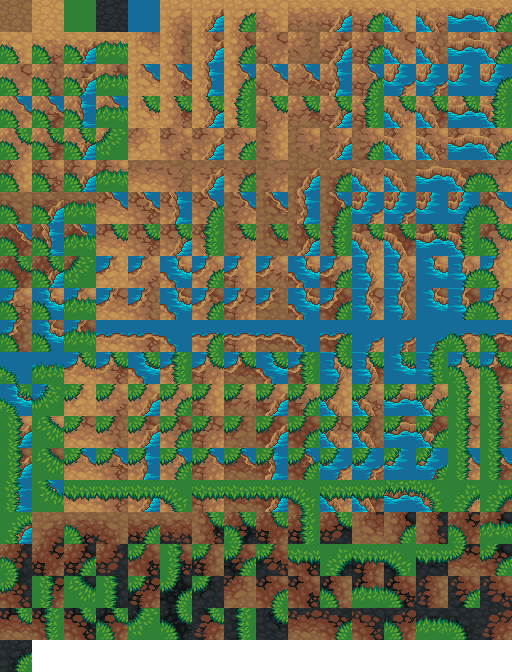
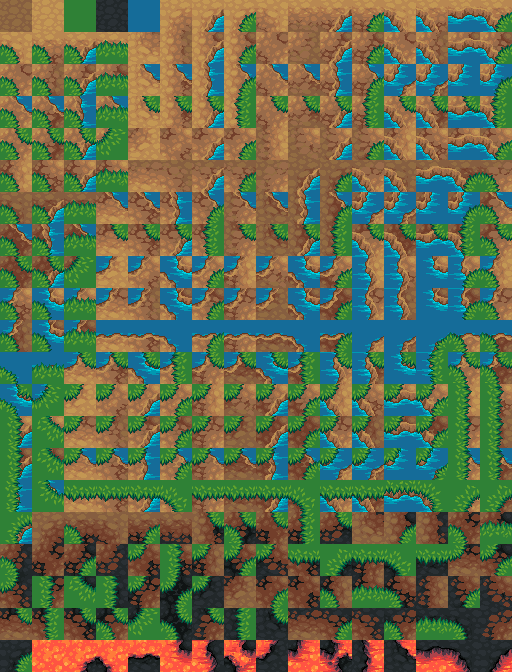
Added lava to terrain tileset
Also fixed the random insertion of grass by tweaking the "distances"
between terrains. All terrains now have a +1 distance penalty to/from
grass, making it prefer transitions through other types of terrain.

Changed region(s): [[0.0625, 0.9375, 1.0, 1.0]]

diff --git a/tiles/terrain.tsx b/tiles/terrain.tsx
@@ -2,11 +2,12 @@
 <tileset name="terrain" tilewidth="32" tileheight="32">
  <image source="terrain.png" width="512" height="672"/>
  <terraintypes>
-  <terrain name="Darkdirt" tile="0" distances=",0,1,1,1,1"/>
-  <terrain name="Dirt" tile="1" distances=",1,0,1,2,1"/>
-  <terrain name="Grass" tile="2" distances=",1,1,0,2,1"/>
-  <terrain name="Lavarock" tile="3" distances=",1,2,2,0,2"/>
-  <terrain name="Water" tile="4" distances=",1,1,1,2,0"/>
+  <terrain name="Darkdirt" tile="0" distances=",0,1,2,1,1,2"/>
+  <terrain name="Dirt" tile="1" distances=",1,0,2,2,1,3"/>
+  <terrain name="Grass" tile="2" distances=",2,2,0,2,2,3"/>
+  <terrain name="Lavarock" tile="3" distances=",1,2,2,0,2,1"/>
+  <terrain name="Water" tile="4" distances=",1,1,2,2,0,3"/>
+  <terrain name="Lava" tile="321" distances=",2,3,3,1,3,0"/>
  </terraintypes>
  <tile id="0" terrain="0,0,0,0"/>
  <tile id="1" terrain="1,1,1,1"/>
@@ -329,4 +330,19 @@
  <tile id="318" terrain="3,3,2,3"/>
  <tile id="319" terrain="3,3,3,0"/>
  <tile id="320" terrain="3,3,3,2"/>
+ <tile id="321" terrain="5,5,5,5"/>
+ <tile id="322" terrain="5,5,5,3"/>
+ <tile id="323" terrain="5,5,3,5"/>
+ <tile id="324" terrain="5,5,3,3"/>
+ <tile id="325" terrain="5,3,5,5"/>
+ <tile id="326" terrain="5,3,5,3"/>
+ <tile id="327" terrain="5,3,3,5"/>
+ <tile id="328" terrain="5,3,3,3"/>
+ <tile id="329" terrain="3,5,5,5"/>
+ <tile id="330" terrain="3,5,5,3"/>
+ <tile id="331" terrain="3,5,3,5"/>
+ <tile id="332" terrain="3,5,3,3"/>
+ <tile id="333" terrain="3,3,5,5"/>
+ <tile id="334" terrain="3,3,5,3"/>
+ <tile id="335" terrain="3,3,3,5"/>
 </tileset>

diff --git a/tools/brushgenerator/lava.tsx b/tools/brushgenerator/lava.tsx
@@ -1,0 +1,21 @@
+<tileset name="terrains" tilewidth="32" tileheight="32">
+ <image source="./lava.png" width="96" height="192"/>
+ <terraintypes>
+  <terrain name="Lava" tile="10"/>
+ </terraintypes>
+ <tile id="0" terrain=",0,0,"/>
+ <tile id="1" terrain="0,0,0,"/>
+ <tile id="2" terrain="0,0,,0"/>
+ <tile id="3" terrain="0,,,0"/>
+ <tile id="4" terrain="0,,0,0"/>
+ <tile id="5" terrain=",0,0,0"/>
+ <tile id="6" terrain=",,,0"/>
+ <tile id="7" terrain=",,0,0"/>
+ <tile id="8" terrain=",,0,"/>
+ <tile id="9" terrain=",0,,0"/>
+ <tile id="10" terrain="0,0,0,0"/>
+ <tile id="11" terrain="0,,0,"/>
+ <tile id="12" terrain=",0,,"/>
+ <tile id="13" terrain="0,0,,"/>
+ <tile id="14" terrain="0,,,"/>
+</tileset>
